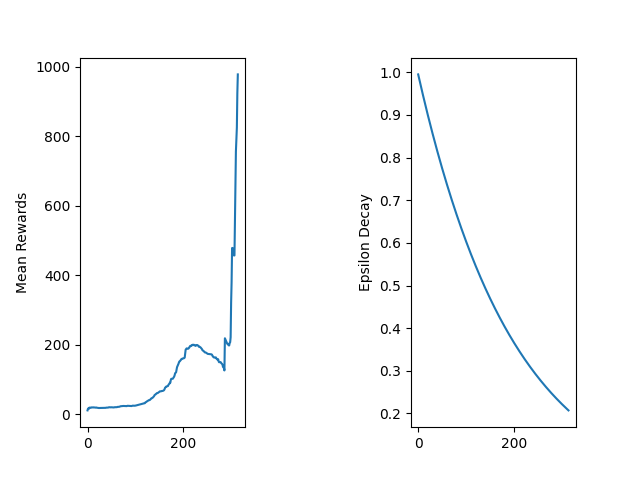
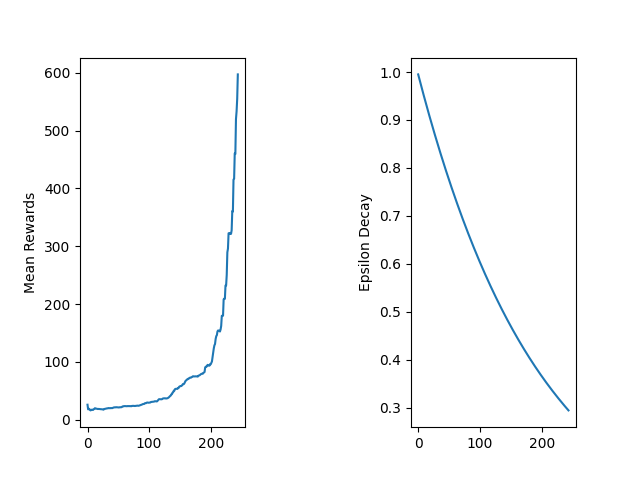
readme done for q learning

diff --git a/Deep-Q-Learning/agent.py b/Deep-Q-Learning/agent.py
@@ -62,8 +62,8 @@ class Agent:
         # instance of the FlappyBird environment
         # env = gymnasium.make("FlappyBird-v0", render_mode="human"if render else None, use_lidar=False)
         global  best_reward, step_count, memory, target_dqn, epsilon
-        # env = gymnasium.make("CartPole-v1", render_mode="human" if render else None)
-        env = gymnasium.make("FlappyBird-v0", render_mode="human" if render else None, use_lidar=False)
+        env = gymnasium.make("CartPole-v1", render_mode="human" if render else None)
+        # env = gymnasium.make("FlappyBird-v0", render_mode="human" if render else None, use_lidar=False)
 
         # Number of actions
         num_actions = env.action_space.n
@@ -248,6 +248,6 @@ class Agent:
 
 
 if __name__ == '__main__':
-    agent = Agent('flappybird1')
+    agent = Agent('cartpole1')
     agent.run(is_training=True, render=True)
     print("Done")

diff --git a/Deep-Q-Learning/README.md b/Deep-Q-Learning/README.md
@@ -1,0 +1,75 @@
+# Deep Q-Learning
+
+## Task Description
+The task is to implement a Deep Q-Learning algorithm to solve the CartPole-v1 environment from OpenAI Gym. 
+The algorithm should be able to learn how to balance a pole on a cart by moving the cart left or right. 
+The agent receives a reward of +1 for each time step the pole is balanced.
+
+
+## Explanation of the Solved Task
+
+### 1. Introduction
+Deep Q-Learning is a powerful reinforcement learning technique widely used to train agents in 
+environments with discrete action spaces. It is often tested on **CartPole** due to its simplicity and 
+suitability for understanding the core concepts of reinforcement learning. In CartPole, the agent has two actions: 
+moving the cart left or right, and the goal is to balance the pole as long as possible. 
+Rewards are sparse, making it an ideal starting point for applying reinforcement learning 
+methods before moving on to more complex environments.
+
+
+### 2. Project Structure
+- **Actions:**
+  - `0`: Move cart left.
+  - `1`: Move cart right.
+
+- **Exploration vs. Exploitation:**
+  - **Exploration:** The agent starts by exploring randomly (epsilon = 1) and gradually shifts to exploitation (epsilon → 0.005).
+  - **Exploitation:** After the exploration phase, the agent chooses actions based on the highest Q-value (maximum reward) from its learned policy.
+
+1. **Experience Replay:**
+   - The agent stores its experiences `(state, action, reward, next_state, and termination status)` in a memory buffer for later use.
+   - The experiences are sampled in **mini-batches** to train the agent.
+
+2. **Neural Networks:**
+   - **Prediction Network:** This network predicts the Q-values for each state-action pair. It is updated frequently based on the experiences.
+   - **Target Network:** This network provides stable target Q-values. It is updated less frequently than the prediction network to avoid instability during training.
+
+3. **Optimization:**
+   - The agent minimizes the **loss function**, which measures the difference between the predicted Q-values and the target Q-values. The target Q-value is calculated as the maximum reward the agent can achieve from a given state.
+
+
+### 3. Training Process
+
+| Episode | Best Reward |
+|---------|-------------|
+| 0       | 26.0        |
+| 10      | 30.0        |
+| 12      | 34.0        |
+| 27      | 47.0        |
+| 43      | 49.0        |
+| 56      | 55.0        |
+| 57      | 75.0        |
+| 93      | 138.0       |
+| 114     | 139.0       |
+| 115     | 154.0       |
+| 136     | 236.0       |
+| 138     | 313.0       |
+| 191     | 836.0       |
+| 203     | 926.0       |
+| 218     | 1770.0      |
+| 221     | 2883.0      |
+| 227     | 3928.0      |
+| 237     | 5583.0      |
+| 241     | 6093.0      |
+
+
+
+
+    
+### 4. Conclusion
+The agent learns by exploring states and actions, balancing between exploration and exploitation. 
+Experiences are stored and used for training via a replay mechanism. Two networks ensure stable and effective Q-learning: 
+one for predictions and another for setting targets. The training loop minimizes the loss to improve Q-value approximations, 
+enabling the agent to choose actions that maximize long-term rewards.
+
+
